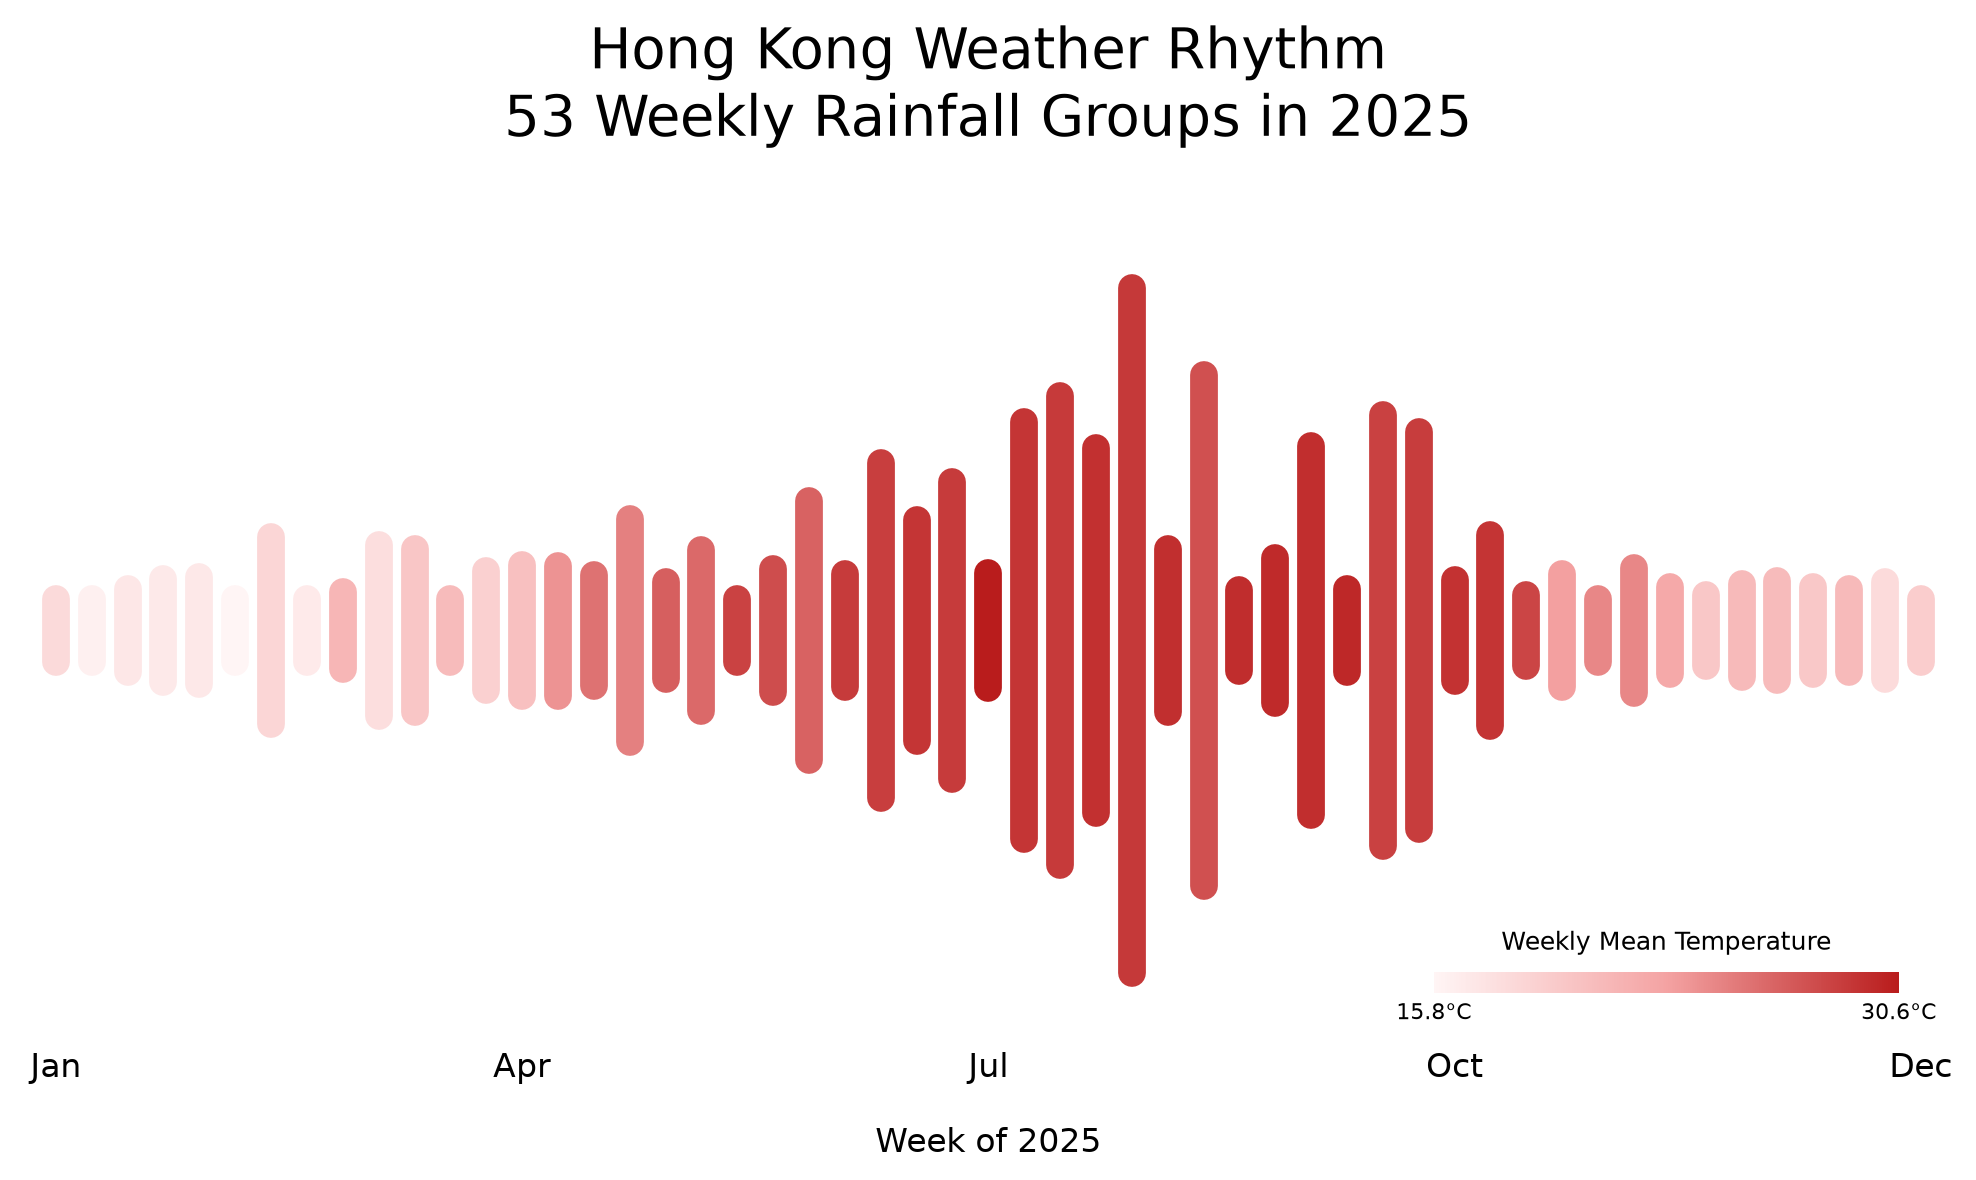
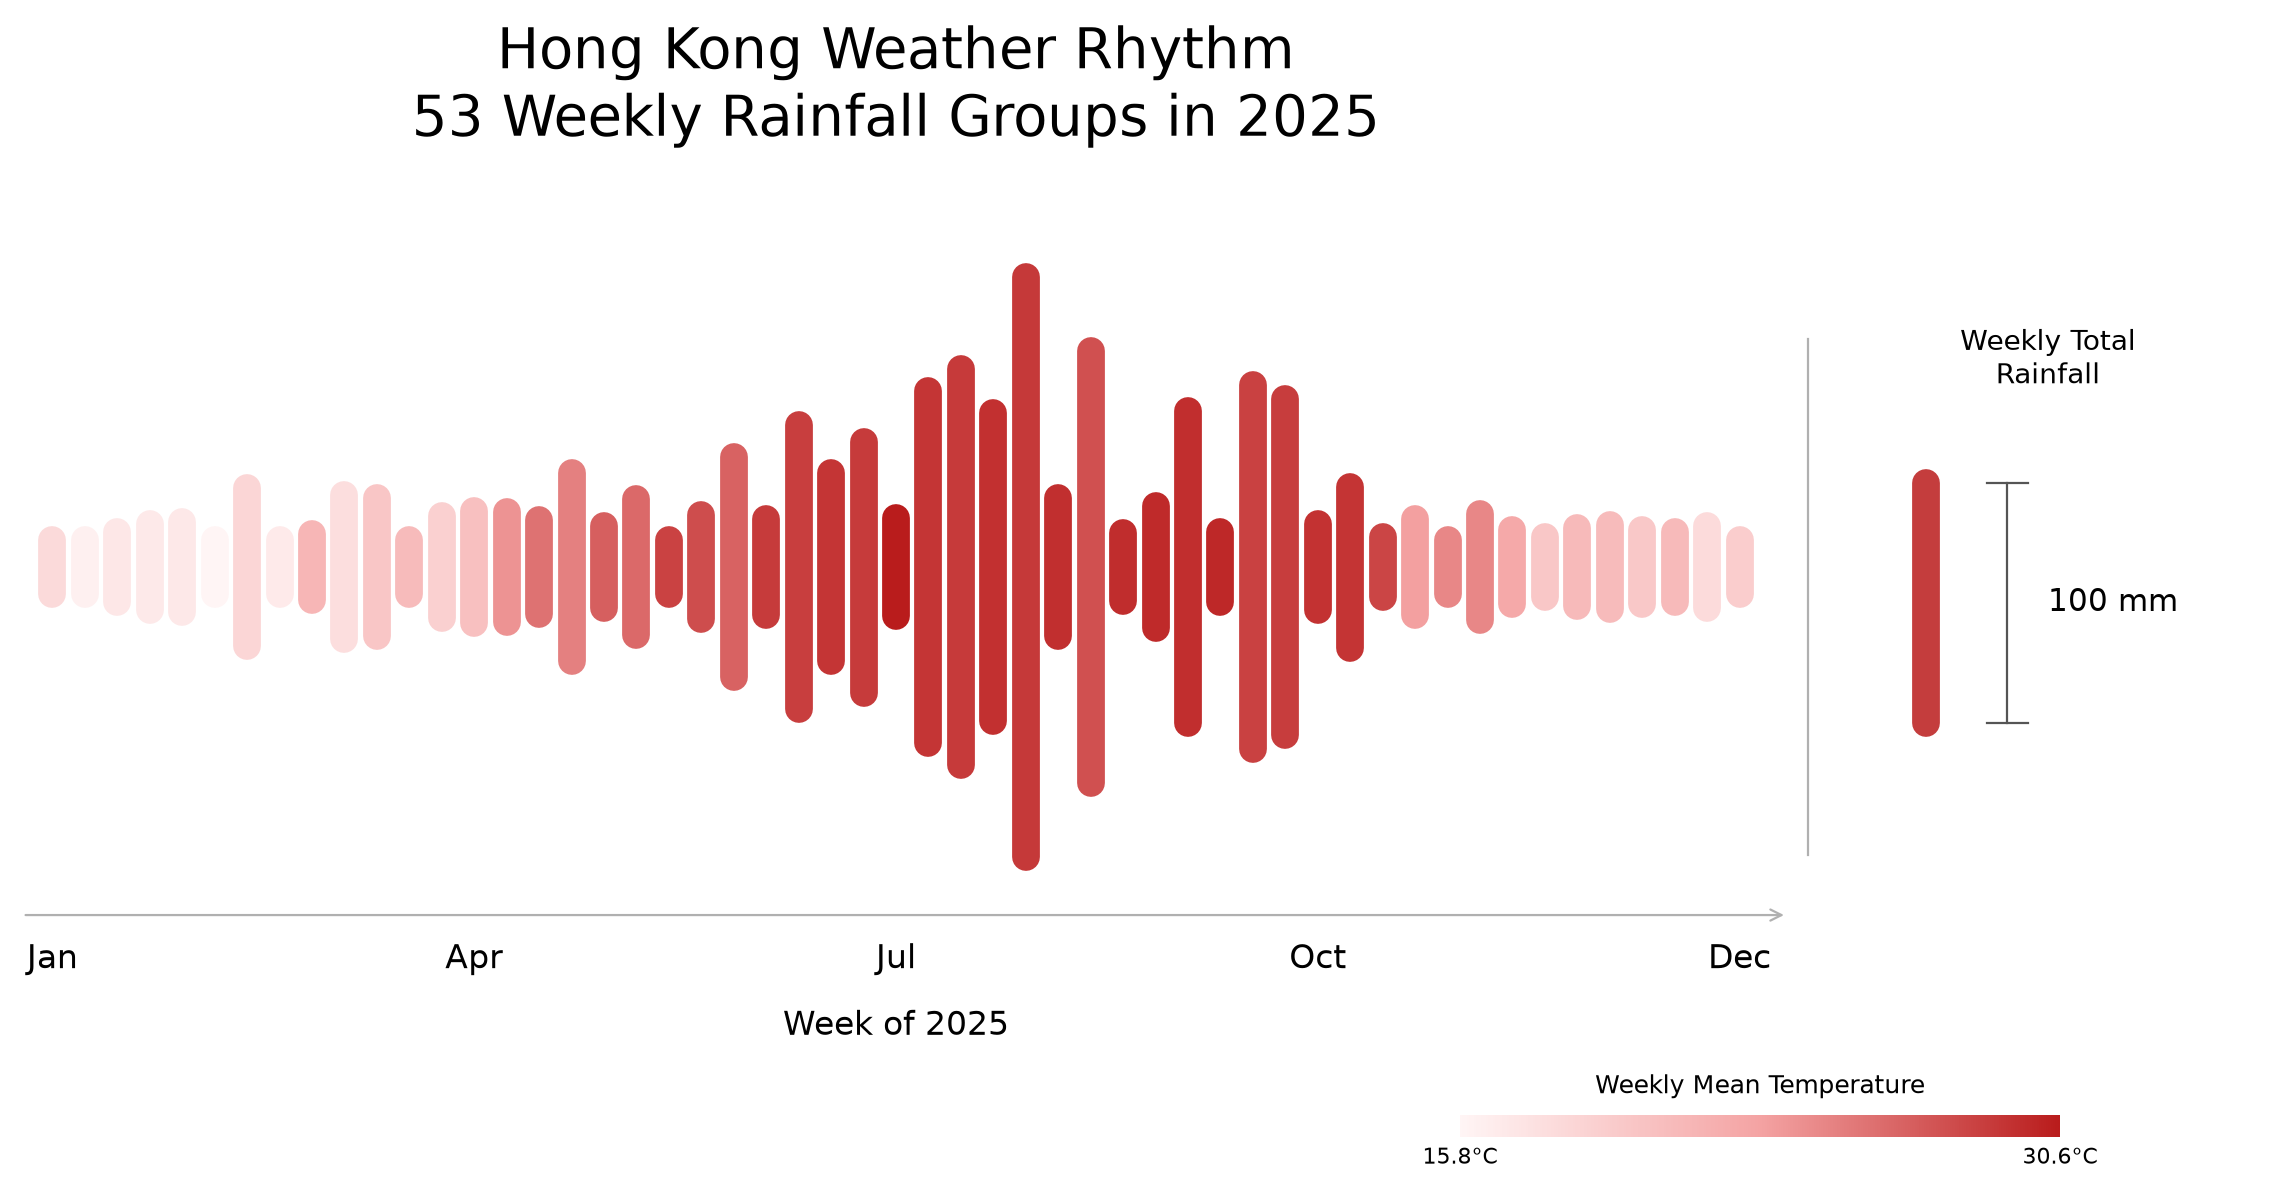
Enhance weather visualization layout with improved spacing and added rainfall legend

diff --git a/weather_garden.py b/weather_garden.py
@@ -124,7 +124,15 @@ print("Weekly temperature:", weekly_temperature)
 
 
 
-fig, ax = plt.subplots(figsize=(10, 6))
+fig, ax = plt.subplots(figsize=(12, 6))
+
+# Reserve space on the right for rainfall legend
+fig.subplots_adjust(
+    left=0.05,
+    right=0.78,
+    top=0.82,
+    bottom=0.24
+)
 
 WEEKS = len(weekly_rainfall)
 
@@ -213,7 +221,7 @@ ax.set_xticklabels(
 ax.set_xlabel(
     "Week of 2025",
     fontsize=12,
-    labelpad=15
+    labelpad=12
 )
 
 ax.set_yticks([])
@@ -223,8 +231,110 @@ for spine in ax.spines.values():
 
 ax.tick_params(axis="x", length=0)
 
+# Month axis with a thin grey arrow
 
+axis_color = "#B0B0B0"
+axis_width = 0.8
 
+ax.annotate(
+    "",
+    xy=(1.01, -0.00),
+    xytext=(0, -0.00),
+    xycoords="axes fraction",
+    textcoords="axes fraction",
+    arrowprops=dict(
+        arrowstyle="->",
+        color=axis_color,
+        lw=axis_width,
+        mutation_scale=10
+    ),
+    annotation_clip=False
+)
+
+# Move month labels closer to the arrow
+ax.tick_params(
+    axis="x",
+    length=0,
+    pad=10
+)
+
+# Rainfall legend: one example bar
+
+example_rain = 100
+
+# Use the same length formula as the main chart
+example_length = 0.5 + np.sqrt(example_rain) * 0.2
+
+# Vertical divider between main chart and rainfall legend
+
+fig.add_artist(
+    plt.Line2D(
+        [0.795, 0.795],
+        [0.29, 0.72],
+        transform=fig.transFigure,
+        color=axis_color,
+        linewidth=axis_width
+    )
+)
+
+# Create a separate legend area on the right
+rain_ax = fig.add_axes([0.81, 0.34, 0.17, 0.32])
+
+rain_ax.set_xlim(0, 1)
+rain_ax.set_ylim(-example_length * 0.8, example_length * 0.8)
+
+# Draw the example bar
+rain_ax.plot(
+    [0.20, 0.20],
+    [-example_length / 2, example_length / 2],
+    color="#C43D3D",
+    linewidth=10,
+    solid_capstyle="round"
+)
+
+# Draw a thin measurement line
+rain_ax.plot(
+    [0.40, 0.40],
+    [-example_length / 2, example_length / 2],
+    color="#555555",
+    linewidth=0.8
+)
+
+# Draw the top and bottom measurement marks
+for y in [-example_length / 2, example_length / 2]:
+
+    rain_ax.plot(
+        [0.35, 0.45],
+        [y, y],
+        color="#555555",
+        linewidth=0.8
+    )
+
+# Add rainfall amount
+rain_ax.text(
+    0.50,
+    0,
+    f"{example_rain} mm",
+    fontsize=11,
+    va="center",
+    ha="left"
+)
+
+# Add legend title
+rain_ax.set_title(
+    "Weekly Total\nRainfall",
+    fontsize=10,
+    pad=10
+)
+
+# Hide axes
+rain_ax.set_xticks([])
+rain_ax.set_yticks([])
+
+for spine in rain_ax.spines.values():
+    spine.set_visible(False)
+
+# Temperature legend
 
 sm = ScalarMappable(
     norm=temp_norm,
@@ -232,17 +342,15 @@ sm = ScalarMappable(
 )
 
 
-legend_ax = ax.inset_axes(
-    [0.73, 0.06, 0.24, 0.025]
+legend_ax = fig.add_axes(
+    [0.65, 0.055, 0.25, 0.018]
 )
-
 
 colorbar = fig.colorbar(
     sm,
     cax=legend_ax,
     orientation="horizontal"
 )
-
 
 colorbar.set_ticks([
     min_temp,
@@ -254,13 +362,11 @@ colorbar.set_ticklabels([
     f"{max_temp:.1f}°C"
 ])
 
-
 colorbar.ax.set_title(
     "Weekly Mean Temperature",
     fontsize=9,
     pad=8
 )
-
 
 colorbar.ax.tick_params(
     labelsize=8,
@@ -277,7 +383,6 @@ ax.set_title(
     pad=30
 )
 
-fig.tight_layout()
 
 OUT.mkdir(exist_ok=True)
 
